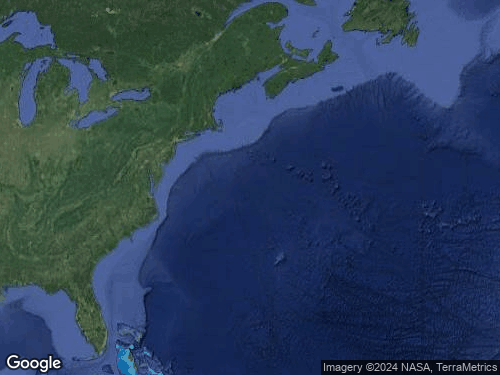
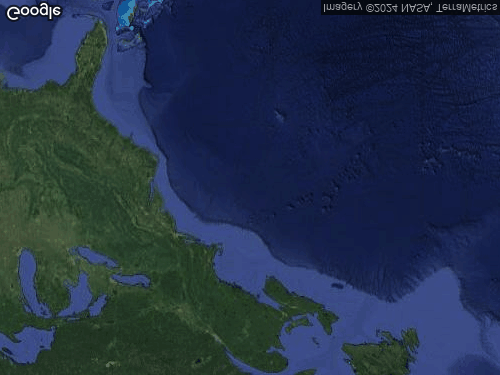
306 wind grid fix

diff --git a/generateGraphs.py b/generateGraphs.py
@@ -9,8 +9,10 @@ RHODE_ISLAND_MAP = "subsetFlipped.png"
 RHODE_ISLAND_AXIS = [-71.905117442267496, -71.0339945492675, 42.200717972845119, 41.028319358056874]
 NORTH_ATLANTIC_MAP = "NorthAtlanticBasin3.png"
 NORTH_ATLANTIC_AXIS = [-76.59179620444773, -63.41595750651321, 46.70943547053439, 36.92061410517965]
-AMERICA_MAP = "America.png"
-AMERICA_AXIS = [-152.73436963558197, -47.327660052105784, 68.95333199817976, -8.92452857958399]
+ATLANTIC_MAP = "AtlanticBasin.png"
+ATLANTIC_AXIS = [-89.47265625, -45.52734375, 49.402995871752374, 23.351173294924422]
+# AMERICA_MAP = "America.png"
+# AMERICA_AXIS = [-152.73436963558197, -47.327660052105784, 68.95333199817976, -8.92452857958399]
 MIDWEST_MAP = "Midwest.png"
 MIDWEST_AXIS = [-91.59179620444776, -78.41595750651324, 47.17062597464635, 37.45872529389382]
 
@@ -93,7 +95,7 @@ def main():
     if(args.gfsExists):
         GFS_WIND_FILE = args.wind
         GFS_WIND_DATA_FILE = wind_temp_directory + "gfs_wind_data_file" + ".json"
-        (windStartDateObject, windEndDateObject) = GFSWindReader(GFS_WIND_FILE=GFS_WIND_FILE, STATIONS_FILE=STATIONS_FILE, GFS_WIND_DATA_FILE=GFS_WIND_DATA_FILE).generateWindDataForStations()
+#         (windStartDateObject, windEndDateObject) = GFSWindReader(GFS_WIND_FILE=GFS_WIND_FILE, STATIONS_FILE=STATIONS_FILE, GFS_WIND_DATA_FILE=GFS_WIND_DATA_FILE).generateWindDataForStations()
         dataToGraph["GFS"] = GFS_WIND_DATA_FILE
     print("args.rainExists", args.rainExists)
     if(args.rainExists):
@@ -164,9 +166,12 @@ def main():
     elif(backgroundChoice == "NORTH_ATLANTIC"):
         backgroundMap = NORTH_ATLANTIC_MAP
         backgroundAxis = NORTH_ATLANTIC_AXIS
-    elif(backgroundChoice == "AMERICA"):
-        backgroundMap = AMERICA_MAP
-        backgroundAxis = AMERICA_AXIS
+    elif(backgroundChoice == "ATLANTIC"):
+        backgroundMap = ATLANTIC_MAP
+        backgroundAxis = ATLANTIC_AXIS
+#     elif(backgroundChoice == "AMERICA"):
+#         backgroundMap = AMERICA_MAP
+#         backgroundAxis = AMERICA_AXIS
     elif(backgroundChoice == "MIDWEST"):
         backgroundMap = MIDWEST_MAP
         backgroundAxis = MIDWEST_AXIS

diff --git a/scale_and_subset.py b/scale_and_subset.py
@@ -254,13 +254,13 @@ class Owi306Wind:
 #     Manually set parameters for 306 type file
         num_lats = 277
         num_lons = 325
-        lat_step = 0.150002
+        lat_step = -0.150002
         lon_step = 0.150002
-#         sw_corner_lat = 46.400002
-        sw_corner_lat = 14.849448
-        sw_corner_lon = -98.599998
-        lat = numpy.linspace(sw_corner_lat, sw_corner_lat + (num_lats - 1) * lat_step, num_lats)
-        lon = numpy.linspace(sw_corner_lon, sw_corner_lon + (num_lons - 1) * lon_step, num_lons)
+        nw_corner_lat = 46.400002
+#         sw_corner_lat = 14.849448
+        nw_corner_lon = -98.6
+        lat = numpy.linspace(nw_corner_lat, nw_corner_lat + (num_lats - 1) * lat_step, num_lats)
+        lon = numpy.linspace(nw_corner_lon, nw_corner_lon + (num_lons - 1) * lon_step, num_lons)
         return WindGrid(lon, lat)
 
     def num_times(self):
@@ -272,14 +272,14 @@ class Owi306Wind:
 #         print(idx_date)
         starting_row = idx * (self.__num_lats * self.__num_lons)
         ending_row = starting_row + (self.__num_lats * self.__num_lons)
-        latitudeIndex = 276
+        latitudeIndex = 0
         longitudeIndex = 0
         uvel = [[None for i in range(self.__num_lons)] for j in range(self.__num_lats)]
         vvel = [[None for i in range(self.__num_lons)] for j in range(self.__num_lats)]
 #         print(len(uvel), len(uvel[0]))
         for index in range(starting_row, ending_row):
             if(longitudeIndex >= self.__num_lons):
-                latitudeIndex = latitudeIndex - 1
+                latitudeIndex = latitudeIndex + 1
                 longitudeIndex = 0
 #             print("index, latIndex, longIndex", index, latitudeIndex, longitudeIndex)
             data = self.__lines[index].split()

diff --git a/Grapher.py b/Grapher.py
@@ -466,7 +466,7 @@ class Grapher:
 #                     plt.scatter(self.mapWindPointsLongitudes, self.mapWindPointsLatitudes, c=self.mapSpeeds[index], alpha=0.3, label="Forecast", marker=".", s=3600)
 #                     contourset = ax.tricontourf(self.mapWindPointsLongitudes, self.mapWindPointsLatitudes, self.mapSpeeds[index], level_boundaries, alpha=0.5, vmin=vmin, vmax=vmax)
 #                     print(len(self.mapWindPointsLongitudes), len(self.mapWindPointsLatitudes), len(self.mapSpeeds[index]))
-                    contourset = ax.pcolormesh(self.mapWindPointsLongitudes, self.mapWindPointsLatitudes, self.mapSpeeds[index], shading='gouraud', cmap="Oranges", vmin=vmin, vmax=vmax, zorder=1)
+                    contourset = ax.pcolormesh(self.mapWindPointsLongitudes, self.mapWindPointsLatitudes, self.mapSpeeds[index], shading='gouraud', cmap="coolwarm", vmin=vmin, vmax=vmax, zorder=1)
                 plt.axis(plotAxis)
 #                 plt.axis([-76.59179620444773, -63.41595750651321, 36.92061410517965, 46.70943547053439])
                 plt.title("Wind Speed")
